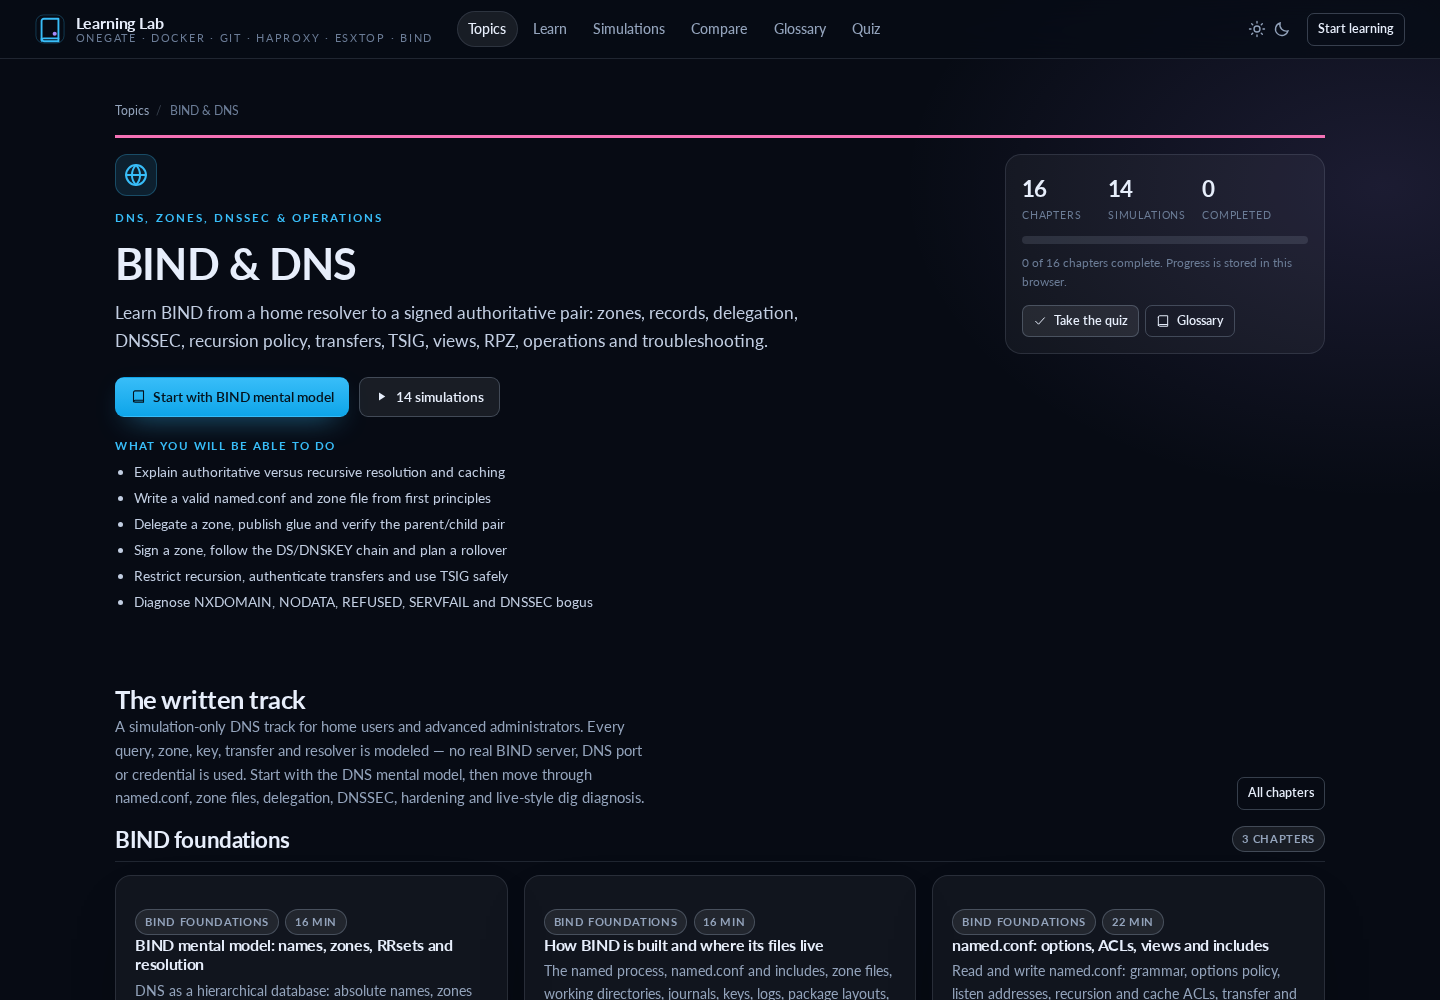
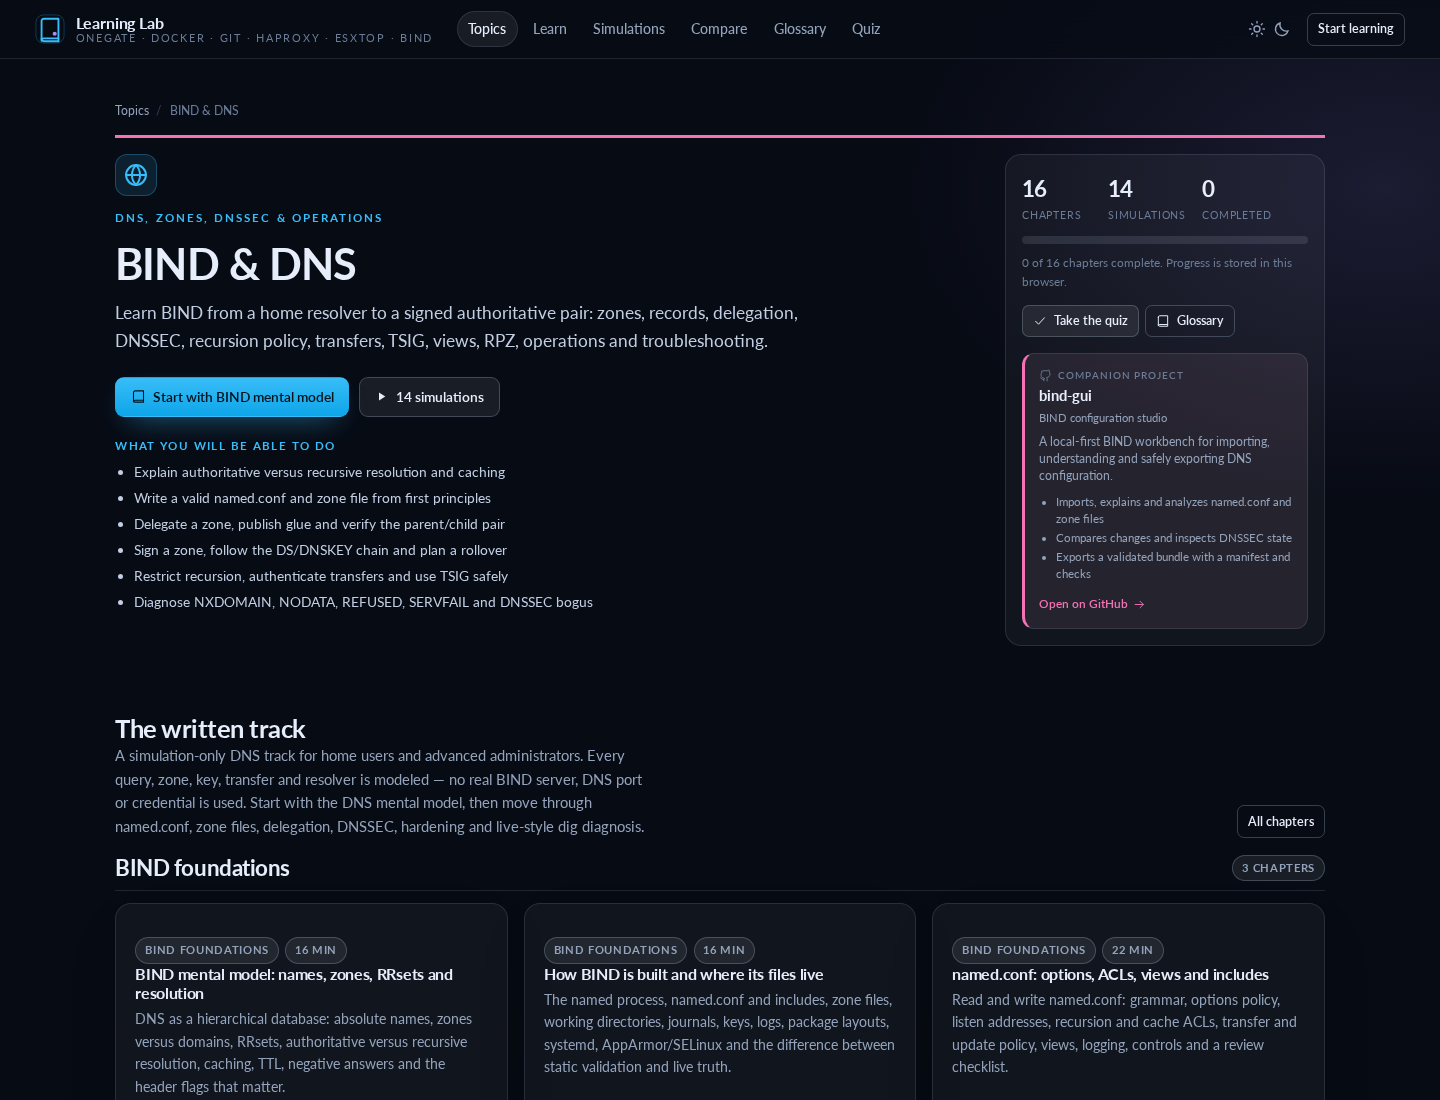
Add companion project cards to topic pages
- Link Docker, Git, HAProxy, ESXtop and BIND tracks to their matching GitHub tools\n- Keep the companion card in the existing sidebar so the written track and simulations remain the primary flow\n- Explain each tool's practical benefits and add static coverage for all five links\n- Bump version to 2.4.0 and refresh the BIND topic screenshot

diff --git a/public/assets/js/content.js b/public/assets/js/content.js
@@ -506,6 +506,64 @@ export const CHAPTERS = [
 
 export const docBySlug = (slug) => DOCS.find((d) => d.slug === slug);
 
+const COMPANION_PROJECTS = {
+  docker: {
+    name: 'docker-mgmt',
+    label: 'Docker Compose updater',
+    url: 'https://github.com/RogerBergling/docker-mgmt',
+    summary: 'A safer, menu-driven way to inspect and update Docker Compose services on one host.',
+    features: [
+      'Scans your Compose files and shows what is actually running',
+      'Checks image updates without restarting anything',
+      'Applies updates only after an explicit confirmation',
+    ],
+  },
+  git: {
+    name: 'git-create',
+    label: 'Git & GitHub assistant',
+    url: 'https://github.com/RogerBergling/git-create',
+    summary: 'A safe, menu-driven Git and GitHub assistant for Linux with no third-party dependencies.',
+    features: [
+      'Creates, clones, publishes and verifies repositories',
+      'Scans many repositories and flags missing settings or secret files',
+      'Explains commands and protects shared history from accidental rewrites',
+    ],
+  },
+  haproxy: {
+    name: 'haproxy-gui',
+    label: 'HAProxy configuration studio',
+    url: 'https://github.com/RogerBergling/haproxy-gui',
+    summary: 'A local-first HAProxy workbench for importing, understanding and safely changing configurations.',
+    features: [
+      'Imports and analyzes configs with explainable findings',
+      'Visualizes routing and simulates requests',
+      'Plans services, compares versions and exports reviewed changes',
+    ],
+  },
+  esxtop: {
+    name: 'esxtop-perf',
+    label: 'ESXtop Lens',
+    url: 'https://github.com/RogerBergling/esxtop-perf',
+    summary: 'Turns a raw esxtop batch capture into a drillable performance diagnosis.',
+    features: [
+      'Imports PDH-CSV or gzip captures',
+      'Charts every counter and applies transparent threshold rules',
+      'Explains findings and the next checks to run',
+    ],
+  },
+  bind: {
+    name: 'bind-gui',
+    label: 'BIND configuration studio',
+    url: 'https://github.com/RogerBergling/bind-gui',
+    summary: 'A local-first BIND workbench for importing, understanding and safely exporting DNS configuration.',
+    features: [
+      'Imports, explains and analyzes named.conf and zone files',
+      'Compares changes and inspects DNSSEC state',
+      'Exports a validated bundle with a manifest and checks',
+    ],
+  },
+};
+
 export const TOPICS = {
   onegate: {
     id: 'onegate',
@@ -544,6 +602,7 @@ export const TOPICS = {
     eyebrow: 'Containers, Compose & operations',
     icon: 'box',
     accent: 'ok',
+    project: COMPANION_PROJECTS.docker,
     summary: 'Run, inspect, debug and ship containers on your own Linux machine. Learn the Dockerfile, Compose, storage, networking, hardening and GHCR update loop.',
     description: 'A practical container track built around commands you will actually run. Start with the mental model, then move through builds, container lifecycle, volumes, networks, Compose and production operations.',
     outcomes: [
@@ -569,6 +628,7 @@ export const TOPICS = {
     eyebrow: 'Version control & delivery',
     icon: 'branch',
     accent: 'orange',
+    project: COMPANION_PROJECTS.git,
     summary: 'Learn Git from the object model to a safe daily workflow, then take a commit all the way through tags, GitHub Actions and a verified GHCR deployment.',
     description: 'A safety-first Git track. Understand the index, branches, merge/rebase, undo and recovery, remote authentication, global settings, secret hygiene and the release pipeline.',
     outcomes: [
@@ -596,6 +656,7 @@ export const TOPICS = {
     eyebrow: 'Proxying, TLS & traffic control',
     icon: 'proxy',
     accent: 'violet',
+    project: COMPANION_PROJECTS.haproxy,
     summary: 'Learn how HAProxy receives a connection, applies ACLs, chooses a backend, balances servers and survives TLS, timeouts and failures — without an editor or live debug console.',
     description: 'A traffic-control track built around the request path: bind/TLS → ACL order → backend → server → response. The lab teaches the model and simulations; use the official HAProxy manual and haproxy -c for real deployments.',
     outcomes: [
@@ -621,6 +682,7 @@ export const TOPICS = {
     eyebrow: 'ESXi performance & support triage',
     icon: 'activity',
     accent: 'teal',
+    project: COMPANION_PROJECTS.esxtop,
     summary: 'Read esxtop like a level-3 support engineer: capture the right counters, separate CPU ready from limits, follow storage latency through DAVG/KAVG/GAVG, inspect memory reclaim and NUMA, then turn findings into a verified action plan.',
     description: 'A simulation-only ESXi performance track built around the counter path. Every host, VM, datastore and packet is modeled — no real ESXi host or credentials are required. Covers interactive, batch, replay and focused -c captures, CPU/memory/storage/network counters, thresholds, false positives, large-sample sizing and reporting.',
     outcomes: [
@@ -649,6 +711,7 @@ export const TOPICS = {
     eyebrow: 'DNS, zones, DNSSEC & operations',
     icon: 'dns',
     accent: 'pink',
+    project: COMPANION_PROJECTS.bind,
     summary: 'Learn BIND from a home resolver to a signed authoritative pair: zones, records, delegation, DNSSEC, recursion policy, transfers, TSIG, views, RPZ, operations and troubleshooting.',
     description: 'A simulation-only DNS track for home users and advanced administrators. Every query, zone, key, transfer and resolver is modeled — no real BIND server, DNS port or credential is used. Start with the DNS mental model, then move through named.conf, zone files, delegation, DNSSEC, hardening and live-style dig diagnosis.',
     outcomes: [

diff --git a/public/assets/css/app.css b/public/assets/css/app.css
@@ -255,6 +255,35 @@ code, kbd, pre { font-family: var(--mono); font-size: .88em; }
 .topic-stats span { display: block; color: var(--dim); font-size: .66rem; text-transform: uppercase; letter-spacing: .08em; }
 .topic-side .dim { font-size: .74rem; margin: .6rem 0 .8rem; }
 .topic-links { display: flex; gap: .4rem; flex-wrap: wrap; }
+.topic-project {
+  display: flex; flex-direction: column; gap: .22rem; margin-top: 1rem; padding: .85rem .9rem;
+  border: 1px solid var(--line); border-left: 3px solid var(--accent); border-radius: 12px;
+  background: color-mix(in srgb, var(--accent) 5%, var(--panel)); color: var(--text);
+  text-decoration: none; transition: transform .15s ease, border-color .15s ease, background .15s ease;
+}
+.topic-project:hover { transform: translateY(-1px); border-color: color-mix(in srgb, var(--accent) 45%, var(--line)); background: color-mix(in srgb, var(--accent) 8%, var(--panel)); }
+.topic-project.ok { border-left-color: var(--ok); background: color-mix(in srgb, var(--ok) 5%, var(--panel)); }
+.topic-project.ok:hover { border-color: color-mix(in srgb, var(--ok) 45%, var(--line)); background: color-mix(in srgb, var(--ok) 8%, var(--panel)); }
+.topic-project.orange { border-left-color: var(--orange); background: color-mix(in srgb, var(--orange) 5%, var(--panel)); }
+.topic-project.orange:hover { border-color: color-mix(in srgb, var(--orange) 45%, var(--line)); background: color-mix(in srgb, var(--orange) 8%, var(--panel)); }
+.topic-project.violet { border-left-color: var(--accent-2); background: color-mix(in srgb, var(--accent-2) 5%, var(--panel)); }
+.topic-project.violet:hover { border-color: color-mix(in srgb, var(--accent-2) 45%, var(--line)); background: color-mix(in srgb, var(--accent-2) 8%, var(--panel)); }
+.topic-project.teal { border-left-color: var(--teal); background: color-mix(in srgb, var(--teal) 5%, var(--panel)); }
+.topic-project.teal:hover { border-color: color-mix(in srgb, var(--teal) 45%, var(--line)); background: color-mix(in srgb, var(--teal) 8%, var(--panel)); }
+.topic-project.pink { border-left-color: var(--pink); background: color-mix(in srgb, var(--pink) 5%, var(--panel)); }
+.topic-project.pink:hover { border-color: color-mix(in srgb, var(--pink) 45%, var(--line)); background: color-mix(in srgb, var(--pink) 8%, var(--panel)); }
+.topic-project-eyebrow { display: inline-flex; align-items: center; gap: .35rem; color: var(--dim); font-size: .62rem; font-weight: 600; letter-spacing: .1em; text-transform: uppercase; }
+.topic-project strong { font-size: .92rem; line-height: 1.2; }
+.topic-project-label { color: var(--muted); font-size: .7rem; }
+.topic-project p { margin: .18rem 0 .2rem; color: var(--muted); font-size: .76rem; line-height: 1.42; }
+.topic-project ul { margin: .05rem 0 .3rem; padding-left: 1.05rem; color: var(--muted); font-size: .72rem; line-height: 1.45; }
+.topic-project li { margin: .14rem 0; }
+.topic-project-link { display: inline-flex; align-items: center; gap: .3rem; margin-top: .15rem; color: var(--accent); font-size: .74rem; font-weight: 600; }
+.topic-project.ok .topic-project-link { color: var(--ok); }
+.topic-project.orange .topic-project-link { color: var(--orange); }
+.topic-project.violet .topic-project-link { color: var(--accent-2); }
+.topic-project.teal .topic-project-link { color: var(--teal); }
+.topic-project.pink .topic-project-link { color: var(--pink); }
 
 .topic-learn-block { border-bottom: 1px solid var(--line); padding-bottom: 1.4rem; }
 .topic-learn-head { margin-bottom: .8rem; }

diff --git a/public/assets/js/pages/topic.js b/public/assets/js/pages/topic.js
@@ -73,6 +73,14 @@ export function renderTopic(view, id) {
           <a class="btn btn-sm" href="#/quiz/${esc(id)}">${icon('check', 14)} Take the quiz</a>
           <a class="btn btn-sm btn-ghost" href="${id === 'onegate' ? '#/glossary' : `#/learn/${id}-glossary`}">${icon('book', 14)} Glossary</a>
         </div>
+        ${topic.project ? `<a class="topic-project ${topic.accent}" href="${esc(topic.project.url)}" target="_blank" rel="noopener noreferrer">
+          <span class="topic-project-eyebrow">${icon('github', 13)} Companion project</span>
+          <strong>${esc(topic.project.name)}</strong>
+          <span class="topic-project-label">${esc(topic.project.label)}</span>
+          <p>${esc(topic.project.summary)}</p>
+          <ul>${topic.project.features.map((feature) => `<li>${esc(feature)}</li>`).join('')}</ul>
+          <span class="topic-project-link">Open on GitHub ${icon('arrow', 13)}</span>
+        </a>` : ''}
       </aside>
     </header>
 

diff --git a/public/assets/js/ui.js b/public/assets/js/ui.js
@@ -33,6 +33,7 @@ const PATHS = {
   branch: '<circle cx="6" cy="5" r="2.2"/><circle cx="6" cy="19" r="2.2"/><circle cx="18" cy="9" r="2.2"/><path d="M6 7.2v9.6M8.2 19h3.3A4.5 4.5 0 0 0 16 14.5V11.2M18 11.2V9"/>',
   network: '<rect x="3" y="4" width="6" height="5" rx="1.5"/><rect x="15" y="4" width="6" height="5" rx="1.5"/><rect x="9" y="15" width="6" height="5" rx="1.5"/><path d="M6 9v3h12V9M12 12v3"/>',
   dns: '<circle cx="12" cy="12" r="8.5"/><path d="M3.5 12h17"/><path d="M12 3.5c2.3 2.4 3.5 5.3 3.5 8.5S14.3 18.1 12 20.5C9.7 18.1 8.5 15.2 8.5 12S9.7 5.9 12 3.5Z"/>',
+  github: '<path d="M9 19c-4.5 1.5-4.5-2.5-6-3m12 6v-3.8a3.4 3.4 0 0 0-.9-2.6c3-.3 6.2-1.5 6.2-6.5a5 5 0 0 0-1.4-3.5 4.7 4.7 0 0 0-.1-3.5s-1.1-.3-3.6 1.3a12.3 12.3 0 0 0-6.4 0C6.3 3.4 5.2 3.7 5.2 3.7a4.7 4.7 0 0 0-.1 3.5A5 5 0 0 0 3.7 10.7c0 5 3.2 6.2 6.2 6.5a3.4 3.4 0 0 0-.9 2.6V22"/>',
   activity: '<path d="M3 12h4l2.5-6 4 12 2.5-6H21"/>',
 };
 

diff --git a/scripts/verify.py b/scripts/verify.py
@@ -427,6 +427,13 @@ check(re.search(r"def version_string\(self\).*?return self\.server_version", py_
 check("## Public internet exposure" in readme,
       "README documents public-internet exposure guidance")
 
+projects_block = section(content, "const COMPANION_PROJECTS = {", "\n};")
+for repo in ("docker-mgmt", "git-create", "haproxy-gui", "esxtop-perf", "bind-gui"):
+    check(f"https://github.com/RogerBergling/{repo}" in projects_block,
+          f"companion project link exists: {repo}")
+check(len(re.findall(r"project: COMPANION_PROJECTS\.\w+", content)) == 5,
+      "five topics declare a companion project")
+
 # ------------------------------------------------------------------------ report
 
 if failures:

diff --git a/README.md b/README.md
@@ -217,7 +217,7 @@ Local development serves the committed fallback:
 
 ```json
 {
-  "version": "2.3.1",
+  "version": "2.4.0",
   "imageTag": "local",
   "commit": "local",
   "buildDate": null
@@ -245,7 +245,7 @@ For a manual Docker build, stamp it explicitly:
 
 ```bash
 docker build \
-  --build-arg APP_VERSION=2.3.1 \
+  --build-arg APP_VERSION=2.4.0 \
   --build-arg IMAGE_TAG=manual \
   --build-arg GIT_SHA="$(git rev-parse --short HEAD)" \
   --build-arg BUILD_DATE="$(date -u +%Y-%m-%dT%H:%M:%SZ)" \
@@ -316,6 +316,8 @@ These controls complement the application hardening already present: read-only c
 | **Glossary** (`#/glossary`) | OneGate terms; Docker, Git, HAProxy, ESXtop and BIND tracks have their own glossaries |
 | **Quiz** (`#/quiz`) | A 53-question knowledge check across the tracks, with saved progress |
 | **Self-check** (`#/selftest`) | Runtime validation of topics, scenarios, tokens, quizzes and all docs |
+
+Topic pages also include a compact **Companion project** card for Docker (`docker-mgmt`), Git (`git-create`), HAProxy (`haproxy-gui`), ESXtop (`esxtop-perf`) and BIND (`bind-gui`), with a short explanation of what each tool does and a direct GitHub link.
 
 Every scenario has five tabs:
 
